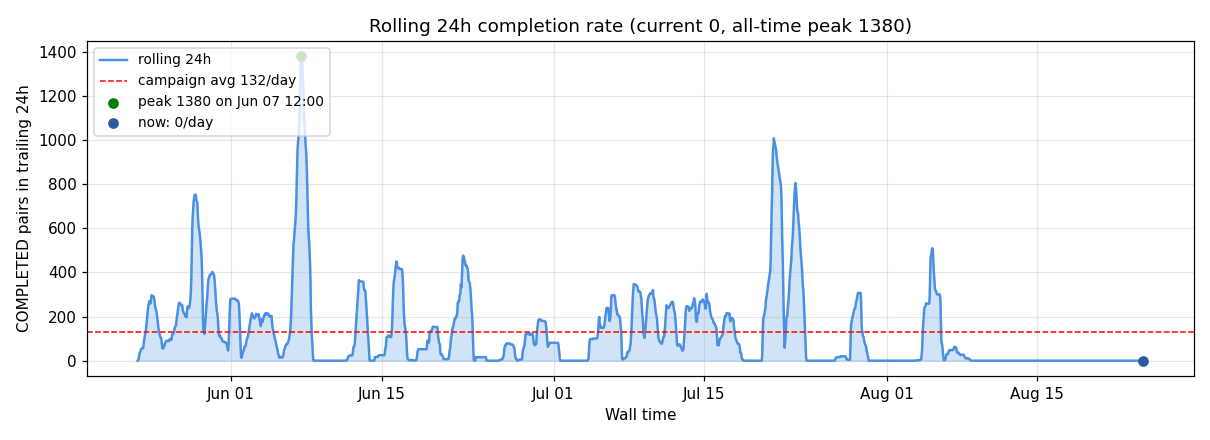
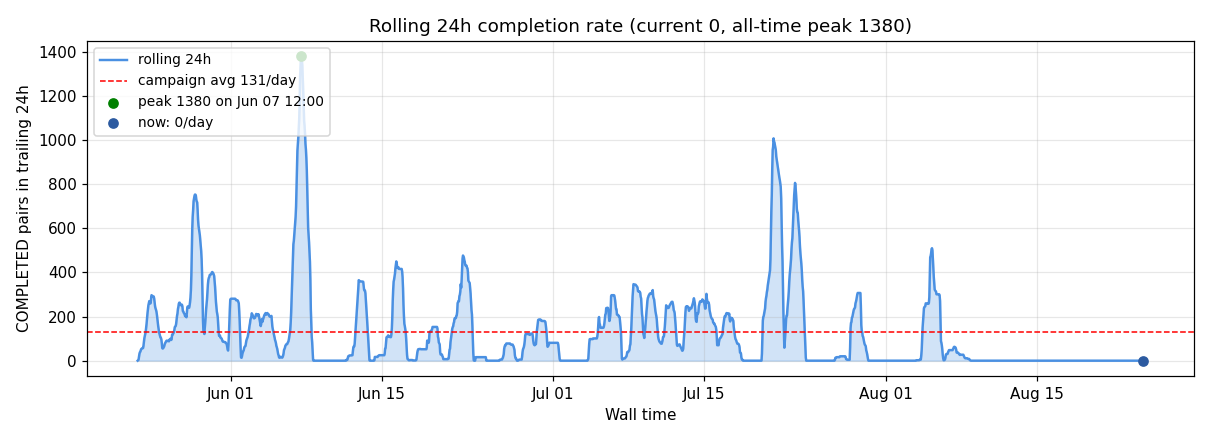
auto: 2026-08-24 21:38:42

diff --git a/index.html b/index.html
@@ -24,7 +24,7 @@ tr:nth-child(even) { background: #fafafa; }
 </style>
 </head><body>
 <h1>AF3 Campaign Dashboard</h1>
-<p class="stamp">Last updated: <strong>2026-08-24 20:38 EDT</strong> · regenerated on the cluster hourly · this page auto-reloads every 30 min</p>
+<p class="stamp">Last updated: <strong>2026-08-24 21:38 EDT</strong> · regenerated on the cluster hourly · this page auto-reloads every 30 min</p>
 
 <div class="cards">
   <div class="card"><div class="v">12,314</div><div class="l">Total COMPLETED pairs</div></div>
